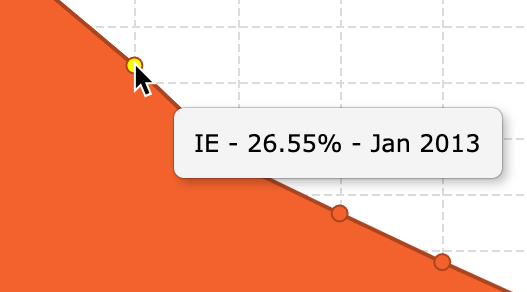
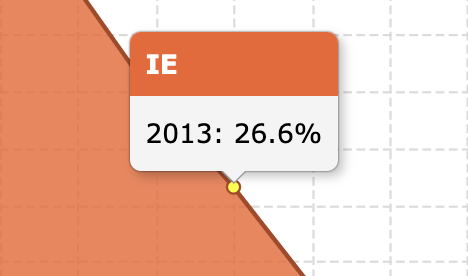
Ag 6646/charts docs (#5082)
* AG-6646 - Area, scatter/bubble, pie/doughnut and treemap series charts docs pages updates

diff --git a/grid-packages/ag-grid-docs/documentation/doc-pages/charts-scatter-series/examples/bubble-chart/main.ts b/grid-packages/ag-grid-docs/documentation/doc-pages/charts-scatter-series/examples/bubble-chart/main.ts
@@ -54,6 +54,7 @@ const options: AgChartOptions = {
       type: 'number',
       position: 'bottom',
       title: {
+        enabled: true,
         text: 'Height',
       },
       label: {
@@ -67,6 +68,7 @@ const options: AgChartOptions = {
       type: 'number',
       position: 'left',
       title: {
+        enabled: true,
         text: 'Weight',
       },
       label: {

diff --git a/grid-packages/ag-grid-docs/documentation/doc-pages/charts-area-series/examples/single-area-markers-labels/main.ts b/grid-packages/ag-grid-docs/documentation/doc-pages/charts-area-series/examples/single-area-markers-labels/main.ts
@@ -26,8 +26,7 @@ const options: AgChartOptions = {
       tooltip: {
         renderer: function (params) {
           return {
-            content:
-              params.yName + ' - ' + params.yValue + '% - Jan ' + params.xValue,
+            content: `${params.xValue}: ${params.yValue.toFixed(1)}%`,
           }
         },
       },

diff --git a/grid-packages/ag-grid-docs/documentation/doc-pages/charts-area-series/examples/single-area-markers/main.ts b/grid-packages/ag-grid-docs/documentation/doc-pages/charts-area-series/examples/single-area-markers/main.ts
@@ -22,8 +22,7 @@ const options: AgChartOptions = {
       tooltip: {
         renderer: function (params) {
           return {
-            content:
-              params.yName + ' - ' + params.yValue + '% - Jan ' + params.xValue,
+            content: `${params.xValue}: ${params.yValue.toFixed(1)}%`,
           }
         },
       },

diff --git a/grid-packages/ag-grid-docs/documentation/doc-pages/charts-scatter-series/examples/scatter-chart/main.ts b/grid-packages/ag-grid-docs/documentation/doc-pages/charts-scatter-series/examples/scatter-chart/main.ts
@@ -16,16 +16,6 @@ const options: AgChartOptions = {
       showInLegend: false,
     },
   ],
-  axes: [
-    {
-      type: 'number',
-      position: 'bottom',
-    },
-    {
-      type: 'number',
-      position: 'left',
-    },
-  ],
 }
 
 agCharts.AgChart.create(options)

diff --git a/grid-packages/ag-grid-docs/documentation/doc-pages/charts-scatter-series/index.md b/grid-packages/ag-grid-docs/documentation/doc-pages/charts-scatter-series/index.md
@@ -5,13 +5,23 @@ title: "Scatter Series"
 Scatter charts use two axes to plot `(x,y)` pairs of numeric variables as points at the intersection of `x` and `y`.
 
 [[note]]
-| Scatter series configuration is largely the same as line series configuration (please refer to the [line series documentation](/charts-line-series/) to learn more),so here we'll just give some examples and cover only the differences.
+| Scatter series configuration is largely the same as line series configuration (please refer to the [line series documentation](/charts-line-series/) to learn more), so here we'll just give some examples and cover only the differences.
 
 ## Scatter Plot
 
 Scatter plots are great for identifying the relationship between plotted values, as well as outliers and gaps in the data.
 
-Here's a simple scatter chart that plots the mean sea level measured over a few years. The measurements may have a certain degree of variability and error to them, but the overall trend is clear &mdash; the sea level is rising.
+To create a simple scatter chart we need to use series type `'scatter'`. We also have to provide the `xKey` and `yKey` properties. A minimal `'scatter'` series config would therefore look like this:
+
+```js
+series: [{
+    type: 'scatter',
+    xKey: 'time',
+    yKey: 'mm',
+}]
+```
+
+Using this simple series config, we can produce the following chart which plots the mean sea level measured over a few years. The measurements may have a certain degree of variability and error to them, but the overall trend is clear &mdash; the sea level is rising.
 
 <chart-example title='Scatter Chart' name='scatter-chart' type='generated'></chart-example>
 
@@ -38,15 +48,17 @@ marker: {
 
 So for example, if the `sizeKey` data ranges from `-100` to `200`, the above config means that `-100` will correspond to marker of size `8` (the `size`), `200` to a marker of size `30` (the `maxSize`), and any value between `-100` and `200` will be interpolated to a value between `8` and `30`.
 
-Finally, the bubble chart is so called because the circle is the most common marker type used for this kind of scatter plot, but with AG Charts any other marker shape can be used as well.
+Finally, the bubble chart is so called because the circle is the most common marker `shape` used for this kind of scatter plot, but with AG Charts any other marker `shape` can be used as well.
 
-The example below uses both `'circle'` and `'square'` markers to represent the age of females and males respectively. We provide the names of all keys to get nice looking tooltips and the `title` of the series to have it reflected in the legend. The series title is shown in the tooltips as well.
+The example below uses both `'circle'` and `'square'` markers to represent the age of females and males respectively.
+- We provide the names of all keys (`xName`, `yName` and `sizeName`) to get nice looking tooltips.
+- The series `title` is also provided which is reflected in the legend and displayed as the title in the tooltips.
 
 <chart-example title='Bubble Chart' name='bubble-chart' type='generated'></chart-example>
 
 ## Bubble Chart with Labels
 
-Scatter series can be configured to use labels. Unlike with other series types where a label is placed
+Scatter series can be configured to use labels. Unlike other series types where a label is placed
 for every data point, scatter series label placement is constrained so that:
 
 - labels don't overlap any markers
@@ -57,7 +69,7 @@ If these constraints are not satisfied, a label is not placed.
 [[note]]
 | Satisfying these constraints is computationally intensive and the complexity rises exponentially with increasing number of data points. Given that label placement might have to happen in real time, for example, when resizing a chart window, it is advised not to enable scatter series labels for data sets with more than a few hundred points.
 
-To enable scatter series labels we have to both set the `label.enabled` config of a series to `true` and to specify which key should be used to fetch the label values.
+To enable scatter series labels we have to set the `label.enabled` config of a series to `true` and specify which key should be used to fetch the label values.
 
 ```js
 labelKey: 'name',
@@ -71,7 +83,7 @@ of all the scatter series in a chart, so labels don't overlap markers and other 
 series nor between different series.
 
 Try openening this example in a larger window to see that more labels are placed as the chart gets bigger.
-You can also try changing the size of the markers and the font size of the labels to see how that effects
+You can also try changing the size of the markers and the font size of the labels to see how that affects
 label placement.
 
 <chart-example title='Bubble Chart with Labels' name='bubble-chart-labels' type='generated'></chart-example>

diff --git a/grid-packages/ag-grid-docs/documentation/doc-pages/charts-area-series/index.md b/grid-packages/ag-grid-docs/documentation/doc-pages/charts-area-series/index.md
@@ -6,7 +6,7 @@ Area series are line series with the area under the line filled, placing more em
 
 ## Single Area Series
 
-To create a simple area chart we need to use series type `'area'`. We also have to provide the `xKey` and at least one `yKey`. A minimal `'area'` series config would therefore look like this:
+To create a simple area chart we need to use series type `'area'`. We also have to provide the `xKey` and `yKey` properties. A minimal `'area'` series config would therefore look like this:
 
 ```js
 series: [{
@@ -16,7 +16,7 @@ series: [{
 }]
 ```
 
-In the snippet above we are using `'ie'` as the only `yKey`, to show market share of just this internet browser. Using this simple series config produces the following chart:
+In the snippet above we are using `'ie'` as the `yKey` to show market share of this internet browser. Using this simple series config produces the following chart:
 
 <chart-example title='Single Area Series' name='single-area' type='generated'></chart-example>
 
@@ -26,17 +26,22 @@ In the snippet above we are using `'ie'` as the only `yKey`, to show market shar
 To enable area markers, all we need to do is add this to the series config:
 
 ```js
-marker: {
-    enabled: true
-}
+series: [{
+    ...
+    marker: {
+        enabled: true
+    }
+}]
 ```
 
-When markers are enabled, the tooltips will be shown on hover. In this case the values shown are percentage values, however there is no `%` suffix because the series don't know about the nature of the data (as it is designed to work with all kinds of data). So for the purposes of this example we additionally provide a `tooltipRenderer` to add the `%` suffix. After this change, the tooltips will change like so:
+Tooltips will be shown on hover, which in this case show percentage values without a `%` suffix.
+
+The series are designed to work with all kinds of data and are unaware of the nature of the values. So we additionally provide a `tooltipRenderer` to add the `%` suffix. After this change, the tooltips will change like so:
 
 <div style="display: flex; justify-content: center;">
-    <image-caption src="default-area-tooltip.png" alt="Default Area Tooltip" width="200px" constrained="true">Before</image-caption>
+    <image-caption src="default-area-tooltip.png" alt="Default Area Tooltip" width="256px" constrained="true">Before</image-caption>
     <div style="margin: auto 0;">--></div>
-    <image-caption src="custom-area-tooltip.png" alt="Custom Area Tooltip" width="300px" constrained="true">After</image-caption>
+    <image-caption src="custom-area-tooltip.png" alt="Custom Area Tooltip" width="256px" constrained="true">After</image-caption>
 </div>
 
 The final result can be seen in the example below.
@@ -56,7 +61,7 @@ series: [{
 }]
 ```
 
-The above config is used in the example below. Feel free to open it in Pluker and experiment with other [label options](#reference-area.label).
+The above config is used in the example below. Feel free to open it in Pluker and experiment with other [label options](#reference-AgAreaSeriesOptions-label).
 
 <chart-example title='Single Area Series with Markers and Labels' name='single-area-markers-labels' type='generated'></chart-example>
 
@@ -97,10 +102,10 @@ The `stacked: true` property controls series stacking behaviour. For example, to
 
 ```js
 series: [
-    { type: 'area', xKey: 'year', stacked: true, yKey: 'ie' },
-    { type: 'area', xKey: 'year', stacked: true, yKey: 'firefox' },
-    { type: 'area', xKey: 'year', stacked: true, yKey: 'safari' },
-    { type: 'area', xKey: 'year', stacked: true, yKey: 'chrome' }
+    { type: 'area', xKey: 'year', yKey: 'ie', stacked: true },
+    { type: 'area', xKey: 'year', yKey: 'firefox', stacked: true },
+    { type: 'area', xKey: 'year', yKey: 'safari', stacked: true },
+    { type: 'area', xKey: 'year', yKey: 'chrome', stacked: true }
 ]
 ```
 
@@ -110,7 +115,7 @@ This produces the following chart:
 
 ## Normalized Area Series
 
-Going back to our [stacked area series](#example-stacked-area-series) example, if we wanted to normalize the totals so that for any given year stack levels always added up to a certain value, for example 100%, we could add the following to our series config:
+Following on from our [stacked area series](#example-stacked-area-series) example, if we want to normalize the totals so that for any given year stack levels always added up to a certain value, for example 100%, we could add the following to our series config:
 
 ```js
 normalizedTo: 100

diff --git a/grid-packages/ag-grid-docs/documentation/doc-pages/charts-treemap-series/index.md b/grid-packages/ag-grid-docs/documentation/doc-pages/charts-treemap-series/index.md
@@ -5,12 +5,12 @@ title: "Treemap Series"
 Treemap series is used to render hierarchical data structures or trees, where each node in the
 tree is represented by a rectangle, and the value of a node by the area of its rectangle.
 
-The bigger the value, the bigger the rectangle is relative to its siblings. Also, parent nodes
+The bigger the value, the bigger the rectangle is relative to its siblings. Parent nodes
 are represented by rectangles with areas that are the totals of their children.
 
 If the nodes have no value, then their area is divided equally among siblings within their parent node.
 
-The Ag-Charts treemap series uses a popular "squarified" tiling algorithm which tries to keep
+The Ag Charts treemap series uses a popular "squarified" tiling algorithm which tries to keep
 each node's rectangle as square as possible.
 
 Treemap series would be a great fit for visualizing a directory structure (the original purpose of
@@ -19,10 +19,10 @@ or sales breakdown by city, state, and country. And these are just a few example
 
 ## Basic Configuration
 
-`cartesian` and `polar` charts are meant to be used with linear data or, in other words, arrays.
-But since treemaps are used to render tree data, to create a basic treemap we need to use
-another type of chart, a `hierarchy` chart. A basic treemap configuration would therefore look
-like this:
+`cartesian` and `polar` charts are used with linear data or, in other words, arrays.
+Since treemaps are used to render tree data, to create a basic treemap, we need to use a `hierarchy` chart.
+
+A basic treemap configuration would look like this:
 
 ```js
 type: 'hierarchy',
@@ -73,21 +73,19 @@ Feel free to open this example in Plunker to enlarge the size of the component a
 ## Alternative Configuration
 
 Although not very common, treemaps can be used to show the hierarchy without emphasizing size.
-In such a case, you can set the `colorKey` to `undefined`. This will make all sibling tiles within
+In such a case, you can set the `sizeKey` to `undefined`. This will make all sibling tiles within
 the same parent have the same area (but not necessarily the same shape).
 
 The org chart example below takes advantage of that by using the following config:
 
 ```js
-type: 'hierarchy',
-data,
 series: [{
     type: 'treemap',
     labelKey: 'orgHierarchy',
     sizeKey: undefined,  // make all siblings within a parent the same size
     colorKey: undefined, // use node depth value to determine the tile color
     colorParents: true,  // assign color to parent tiles based on their depth too (not just leaf tiles)
-    colorDomain: [0, 2, 4], // depth of 0 will correspond to 'red', of 2 to 'green' and so on
+    colorDomain: [0, 2, 4], // depth of 0 will correspond to 'red', 2 to 'green' and so on
     colorRange: ['red', 'green', 'blue'] // tiles with a depth of 1 will be a blend of 'red' and 'green'
 }]
 ```

diff --git a/grid-packages/ag-grid-docs/documentation/doc-pages/charts-pie-series/index.md b/grid-packages/ag-grid-docs/documentation/doc-pages/charts-pie-series/index.md
@@ -2,15 +2,15 @@
 title: "Pie and Doughnut Series"
 ---
 
-This section shows how to create pie charts.
+Pie series are useful for illustrating the numerical proportion of data values. The slices in a pie series show the contribution of individual values to the whole.
 
-Pie series are used for showing how parts relate to the whole, for example if you want to show the market share of each competitor.
+For example, a pie series could be used to visualise the market share of each competitor as a proportion of the total.
 
 ## Basic Configuration
 
 To plot a basic pie all we need is an array of values that will determine the angle of each pie slice. The total of all values will correspond to the full pie.
 
-A basic pie series configuration is shown below:
+A minimal pie series configuration is shown below:
 
 ```js
 series: [{
@@ -42,28 +42,33 @@ Each individual slice can be toggled on and off via the legend.
 
 You might notice that not all of the slices in the chart above have a label. The reason for this is that certain slices can be small, and if there's a cluster of small slices their labels will overlap, resulting in a messy chart. To prevent this from happening the series will only show labels for slices with an angle greater than a certain value, which by default is set to be `20` degrees. This value is adjustable via the `label.minAngle` config:
 
-
 ```js
-label: {
-    minAngle: 20
-}
+series: [{
+    ...
+    label: {
+        minAngle: 20
+    }
+}]
 ```
 
 The label's callout can be configured to have a different `length`, `color` and `strokeWidth`, for example:
 
 ```js
-callout: {
-    colors: 'red',
-    length: 20,
-    strokeWidth: 3
-}
+series: [{
+    ...
+    callout: {
+        colors: ['red'],
+        length: 20,
+        strokeWidth: 3
+    }
+}]
 ```
 
 Please check the [API reference](#api-reference) below to learn more about `label` and `callout`, as well as other series configuration.
 
 ## Variable Slice Radius
 
-Let's say you have the data for both the market share of mobile operating systems and the level of user satisfaction with each OS. We could represent the satisfaction level as the radius of a slice using the `radiusKey` config like so:
+Let's say we have the data for both the market share of mobile operating systems and the level of user satisfaction with each OS. We could represent the satisfaction level as the radius of a slice using the `radiusKey` config like so:
 
 ```js
 series: [{
@@ -74,7 +79,7 @@ series: [{
 }]
 ```
 
-A pie chart where slices can have different radii is also known as a **rose chart**.
+A pie chart where slices have different radii is also known as a **rose chart**.
 
 <chart-example title='Slices with Different Radii' name='slice-radius' type='generated'></chart-example>
 

diff --git a/grid-packages/ag-grid-docs/documentation/doc-pages/charts-markers/index.md b/grid-packages/ag-grid-docs/documentation/doc-pages/charts-markers/index.md
@@ -2,10 +2,9 @@
 title: "Markers"
 ---
 
-This section explores the markers used by line, area and scatter series.
+Data points in `line`, `area` and `scatter` series can be represented by markers.
 
-The shape of the markers can be changed by using the `shape` config. The `size`, `fill` and `stroke` are also valid configs:
-
+Marker attributes such as `shape`, `size`, `fill` and `stroke` are configurable via the chart `options`:
 
 ```js
 marker: {

diff --git a/grid-packages/ag-grid-docs/documentation/doc-pages/charts-bar-series/index.md b/grid-packages/ag-grid-docs/documentation/doc-pages/charts-bar-series/index.md
@@ -38,7 +38,7 @@ series: [
     { type: 'column', xKey: 'quarter', yKey: 'ipad', stacked: true },
     { type: 'column', xKey: 'quarter', yKey: 'wearables', stacked: true },
     { type: 'column', xKey: 'quarter', yKey: 'services', stacked: true },
-}]
+]
 ```
 
 This example demonstrates stacked columns using the `series` configuration above. Additionally:
